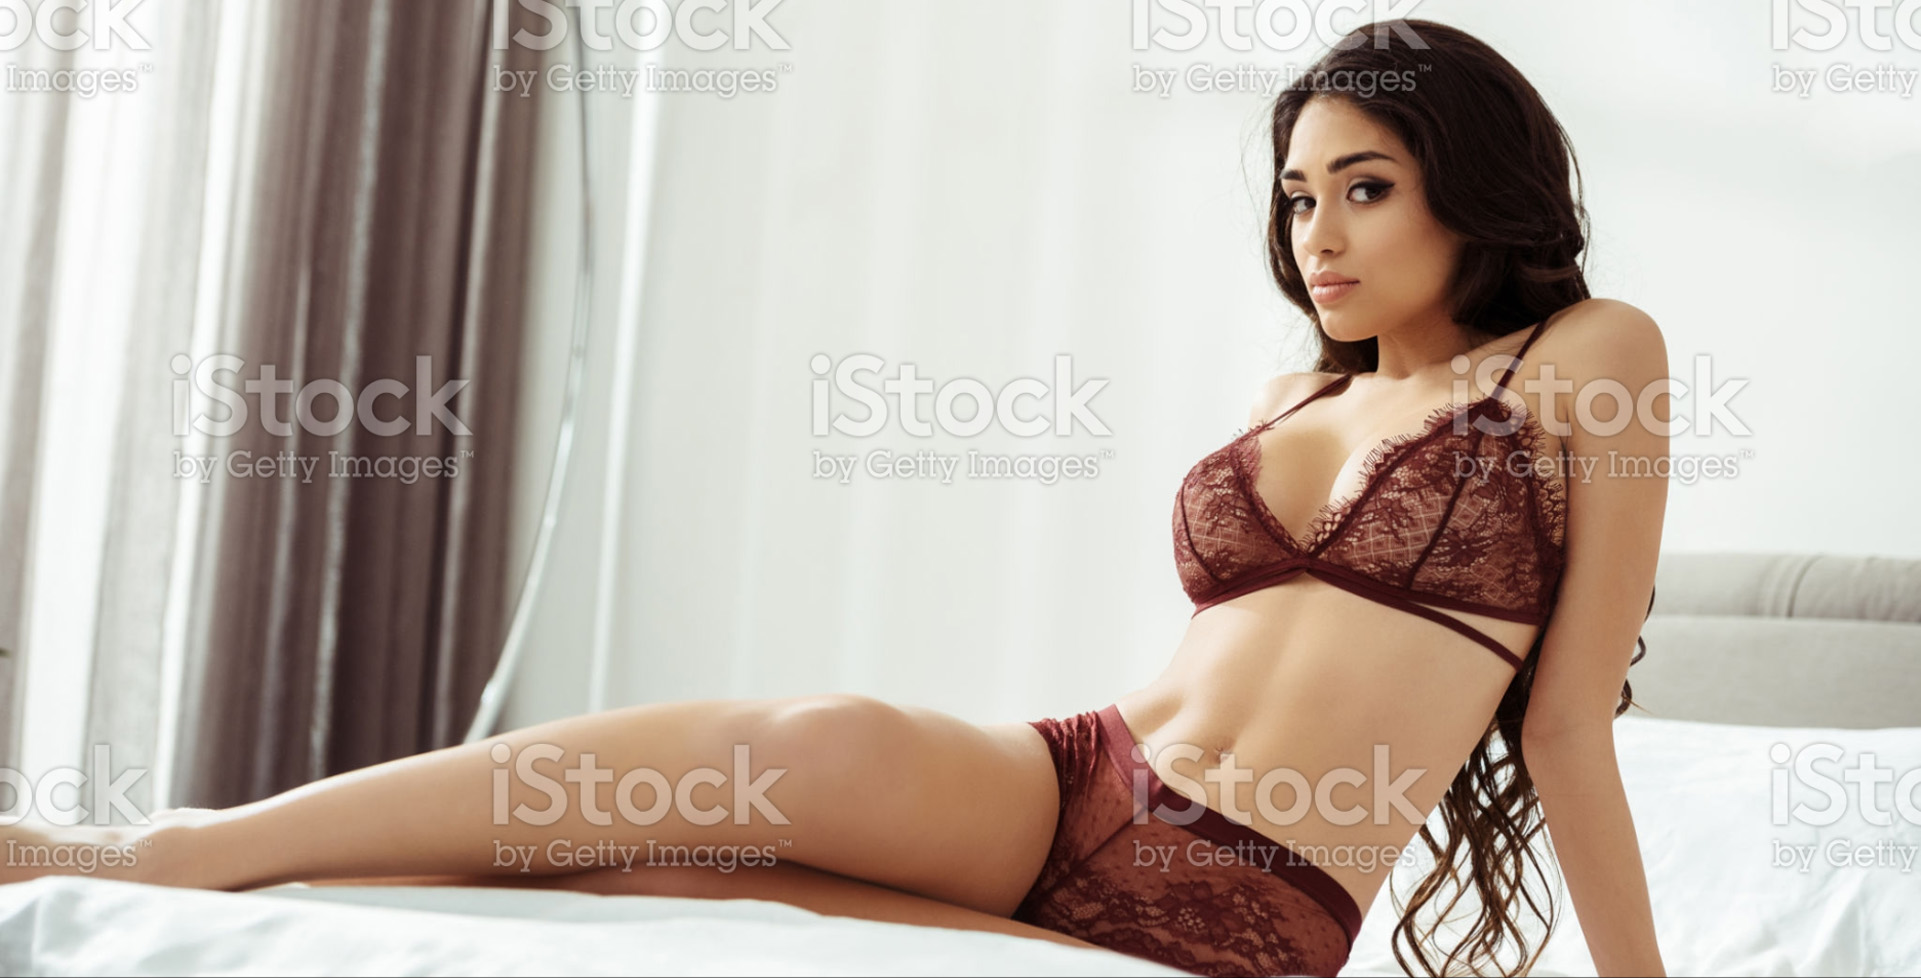
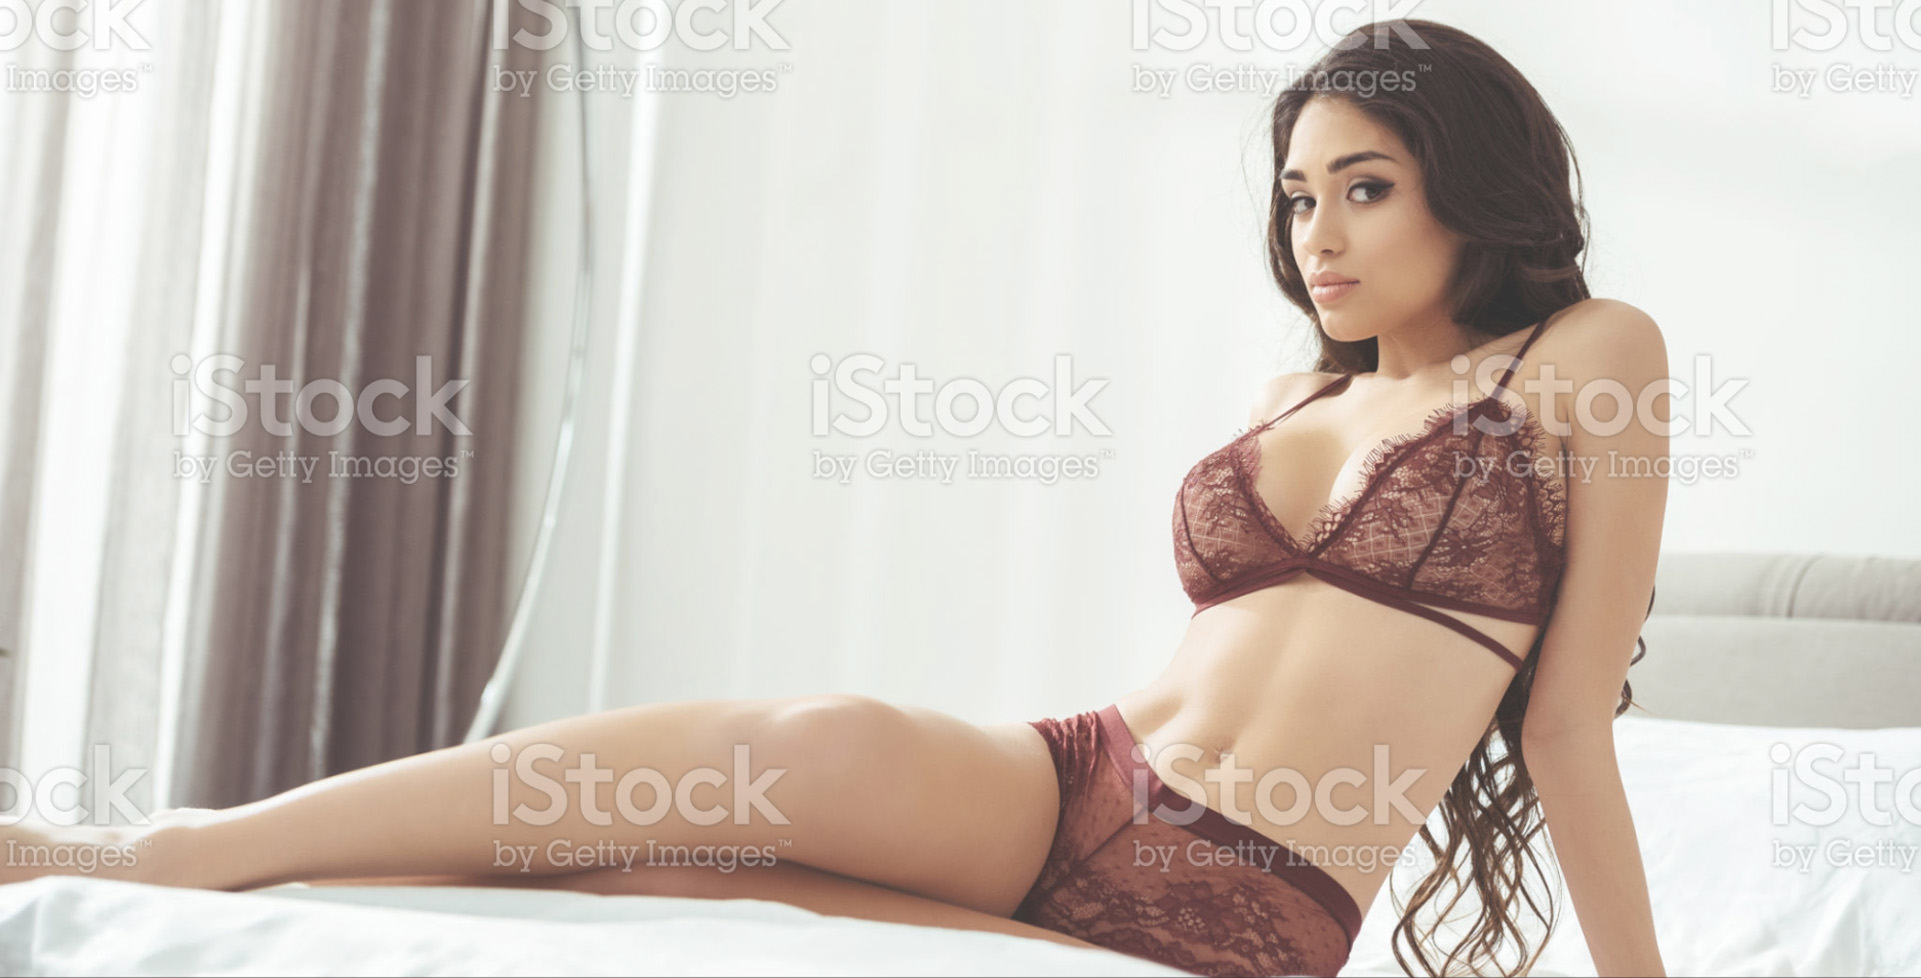
fix hero front image

diff --git a/src/views/front-page.html b/src/views/front-page.html
@@ -26,7 +26,7 @@
 			</div>
 
 			<div class="hero__image-conteiner">
-				<img src="images/demo/hero-image-2.jpg" alt="" class="hero__image">
+				<img src="images/demo/hero-image-4.jpg" alt="" class="hero__image">
 			</div>
 
 			<div class="hero__deco-container">
